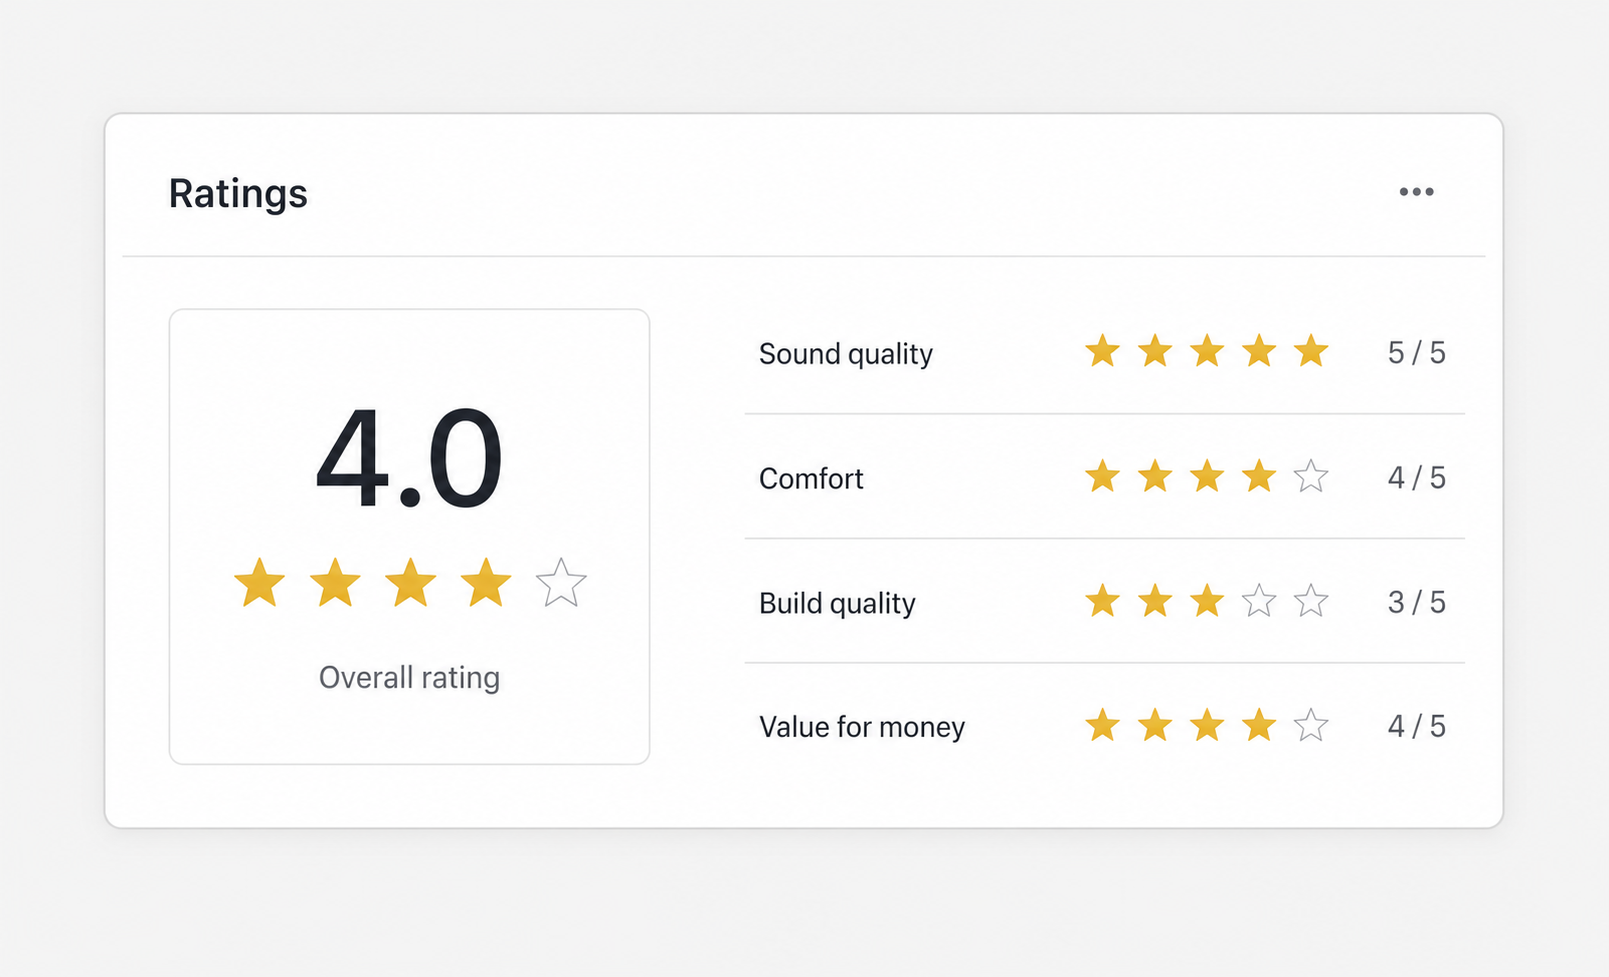
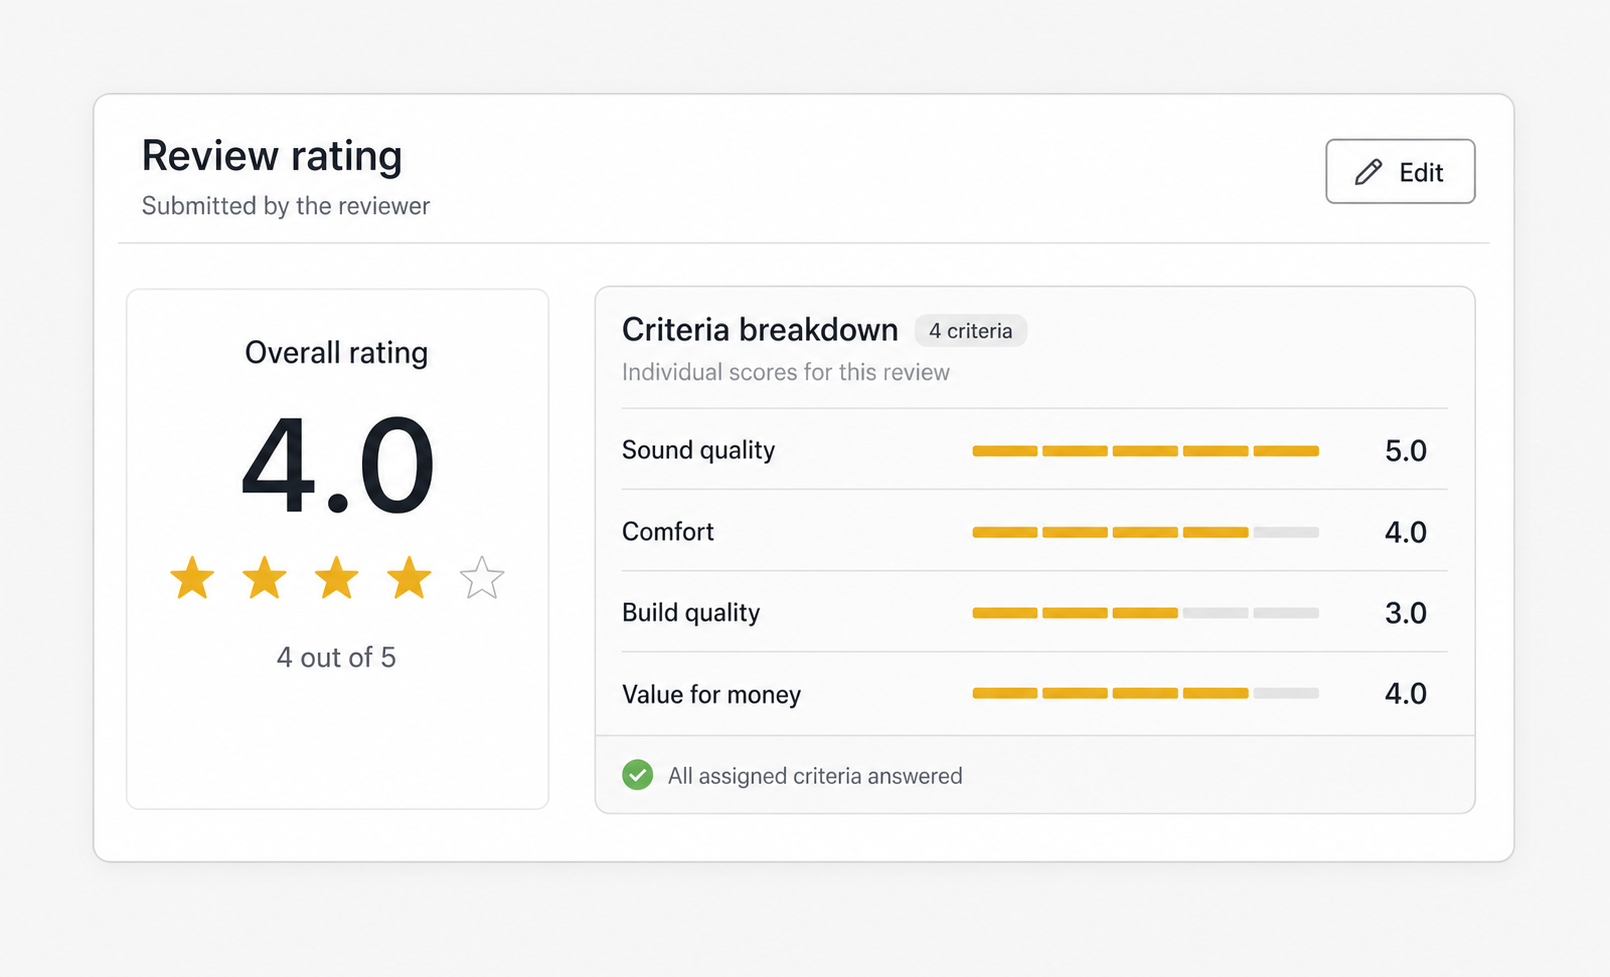
Refine review rating wireframe documentation

diff --git a/admin/docs/review-details-card-modal-redesign-wireframes.md b/admin/docs/review-details-card-modal-redesign-wireframes.md
@@ -362,22 +362,30 @@ KPI panel:
 ![Review ratings section](assets/review-details-redesign/05-review-ratings.png)
 
 ```text
-┌─ Ratings ────────────────────────────────────────────────────────── [⋯] ┐
-│ ┌──────────────────────┐   Sound quality      ★ ★ ★ ★ ★       5 / 5   │
-│ │                      │                                               │
-│ │         4.0          │   Comfort           ★ ★ ★ ★ ☆       4 / 5   │
-│ │     ★ ★ ★ ★ ☆      │                                               │
-│ │                      │   Build quality      ★ ★ ★ ☆ ☆       3 / 5   │
-│ │   Overall rating     │                                               │
-│ └──────────────────────┘   Value for money    ★ ★ ★ ★ ☆       4 / 5   │
+┌─ Review rating ─────────────────────────────────────────────── [Edit] ┐
+│  Submitted by the reviewer                                           │
+│                                                                      │
+│ ┌─ Overall rating ────────┐  ┌─ Criteria breakdown ── [4 criteria] ┐ │
+│ │                         │  │ Individual scores for this review    │ │
+│ │           4.0           │  │                                      │ │
+│ │      ★ ★ ★ ★ ☆         │  │ Sound quality    ▰ ▰ ▰ ▰ ▰    5.0  │ │
+│ │        4 out of 5       │  │ Comfort          ▰ ▰ ▰ ▰ ▱    4.0  │ │
+│ │                         │  │ Build quality    ▰ ▰ ▰ ▱ ▱    3.0  │ │
+│ └─────────────────────────┘  │ Value for money  ▰ ▰ ▰ ▰ ▱    4.0  │ │
+│                              │ ──────────────────────────────────── │ │
+│                              │ ✓ All assigned criteria answered    │ │
+│                              └──────────────────────────────────────┘ │
 └───────────────────────────────────────────────────────────────────────────┘
 ```
 
-- Слева — общий rating крупным числом, disabled `Rate`, подпись `Overall rating`.
-- Справа — criterion ratings в API order: title, disabled `Rate`, `{value}/5`.
-- Если detailed ratings отсутствуют, показывать только overall tile и secondary message `No criterion ratings`.
-- Не использовать `Statistic` в одну длинную строку: на узкой ширине названия criteria теряют связь со значениями.
-- Action: `Edit ratings`.
+- Название `Review rating` и helper text `Submitted by the reviewer` явно отделяют оценку конкретного review от агрегированного product rating.
+- Слева — компактный overall summary: крупное значение, disabled `Rate`, текстовое `{value} out of 5`.
+- Справа — вложенная панель `Criteria breakdown`: count badge, пояснение и criterion ratings в API order.
+- Criterion row состоит из title, пятисегментной шкалы и числового значения. Сегменты визуально отличаются от stars общей оценки и лучше сканируются в плотном списке.
+- Footer `All assigned criteria answered` показывается только когда API подтверждает полноту применимых criteria; при отсутствии такой проверки footer не выводится.
+- Если detailed ratings отсутствуют, панель показывает компактный empty state `No criterion scores were submitted` без count badge и completion footer.
+- На узкой ширине колонки складываются вертикально: overall summary сверху, criteria panel снизу; title и value каждой строки остаются на одной линии.
+- Единственное действие секции — явная кнопка `Edit`, открывающая `Edit ratings`; ambiguous overflow menu здесь не нужен.
 
 ### ReviewMediaSection
 
